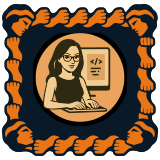
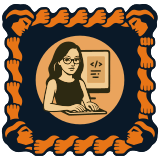
fix(brand): center Serena and remove its outer outline

Changed region(s): [[0.1875, 0.1875, 0.8125, 0.8125]]

diff --git a/scripts/brand_assets.py b/scripts/brand_assets.py
@@ -218,6 +218,7 @@ class SymbolAdjustments(TypedDict, total=False):
     fills: dict[str, str]
     removeTags: list[str]
     removePaths: list[str]
+    removeClasses: list[str]
     overlay: OverlaySettings
 
 
@@ -230,7 +231,9 @@ def adjust_element(parent: ET.Element, service: SymbolAdjustments) -> None:
         parent.set("fill", fills[fill])
     for child in list(parent):
         tag = child.tag.rsplit("}", 1)[-1]
-        if tag in service.get("removeTags", []) or (
+        if tag in service.get("removeTags", []) or any(
+            name in child.get("class", "").split() for name in service.get("removeClasses", [])
+        ) or (
             tag == "path" and child.get("d") in service.get("removePaths", [])
         ):
             parent.remove(child)
